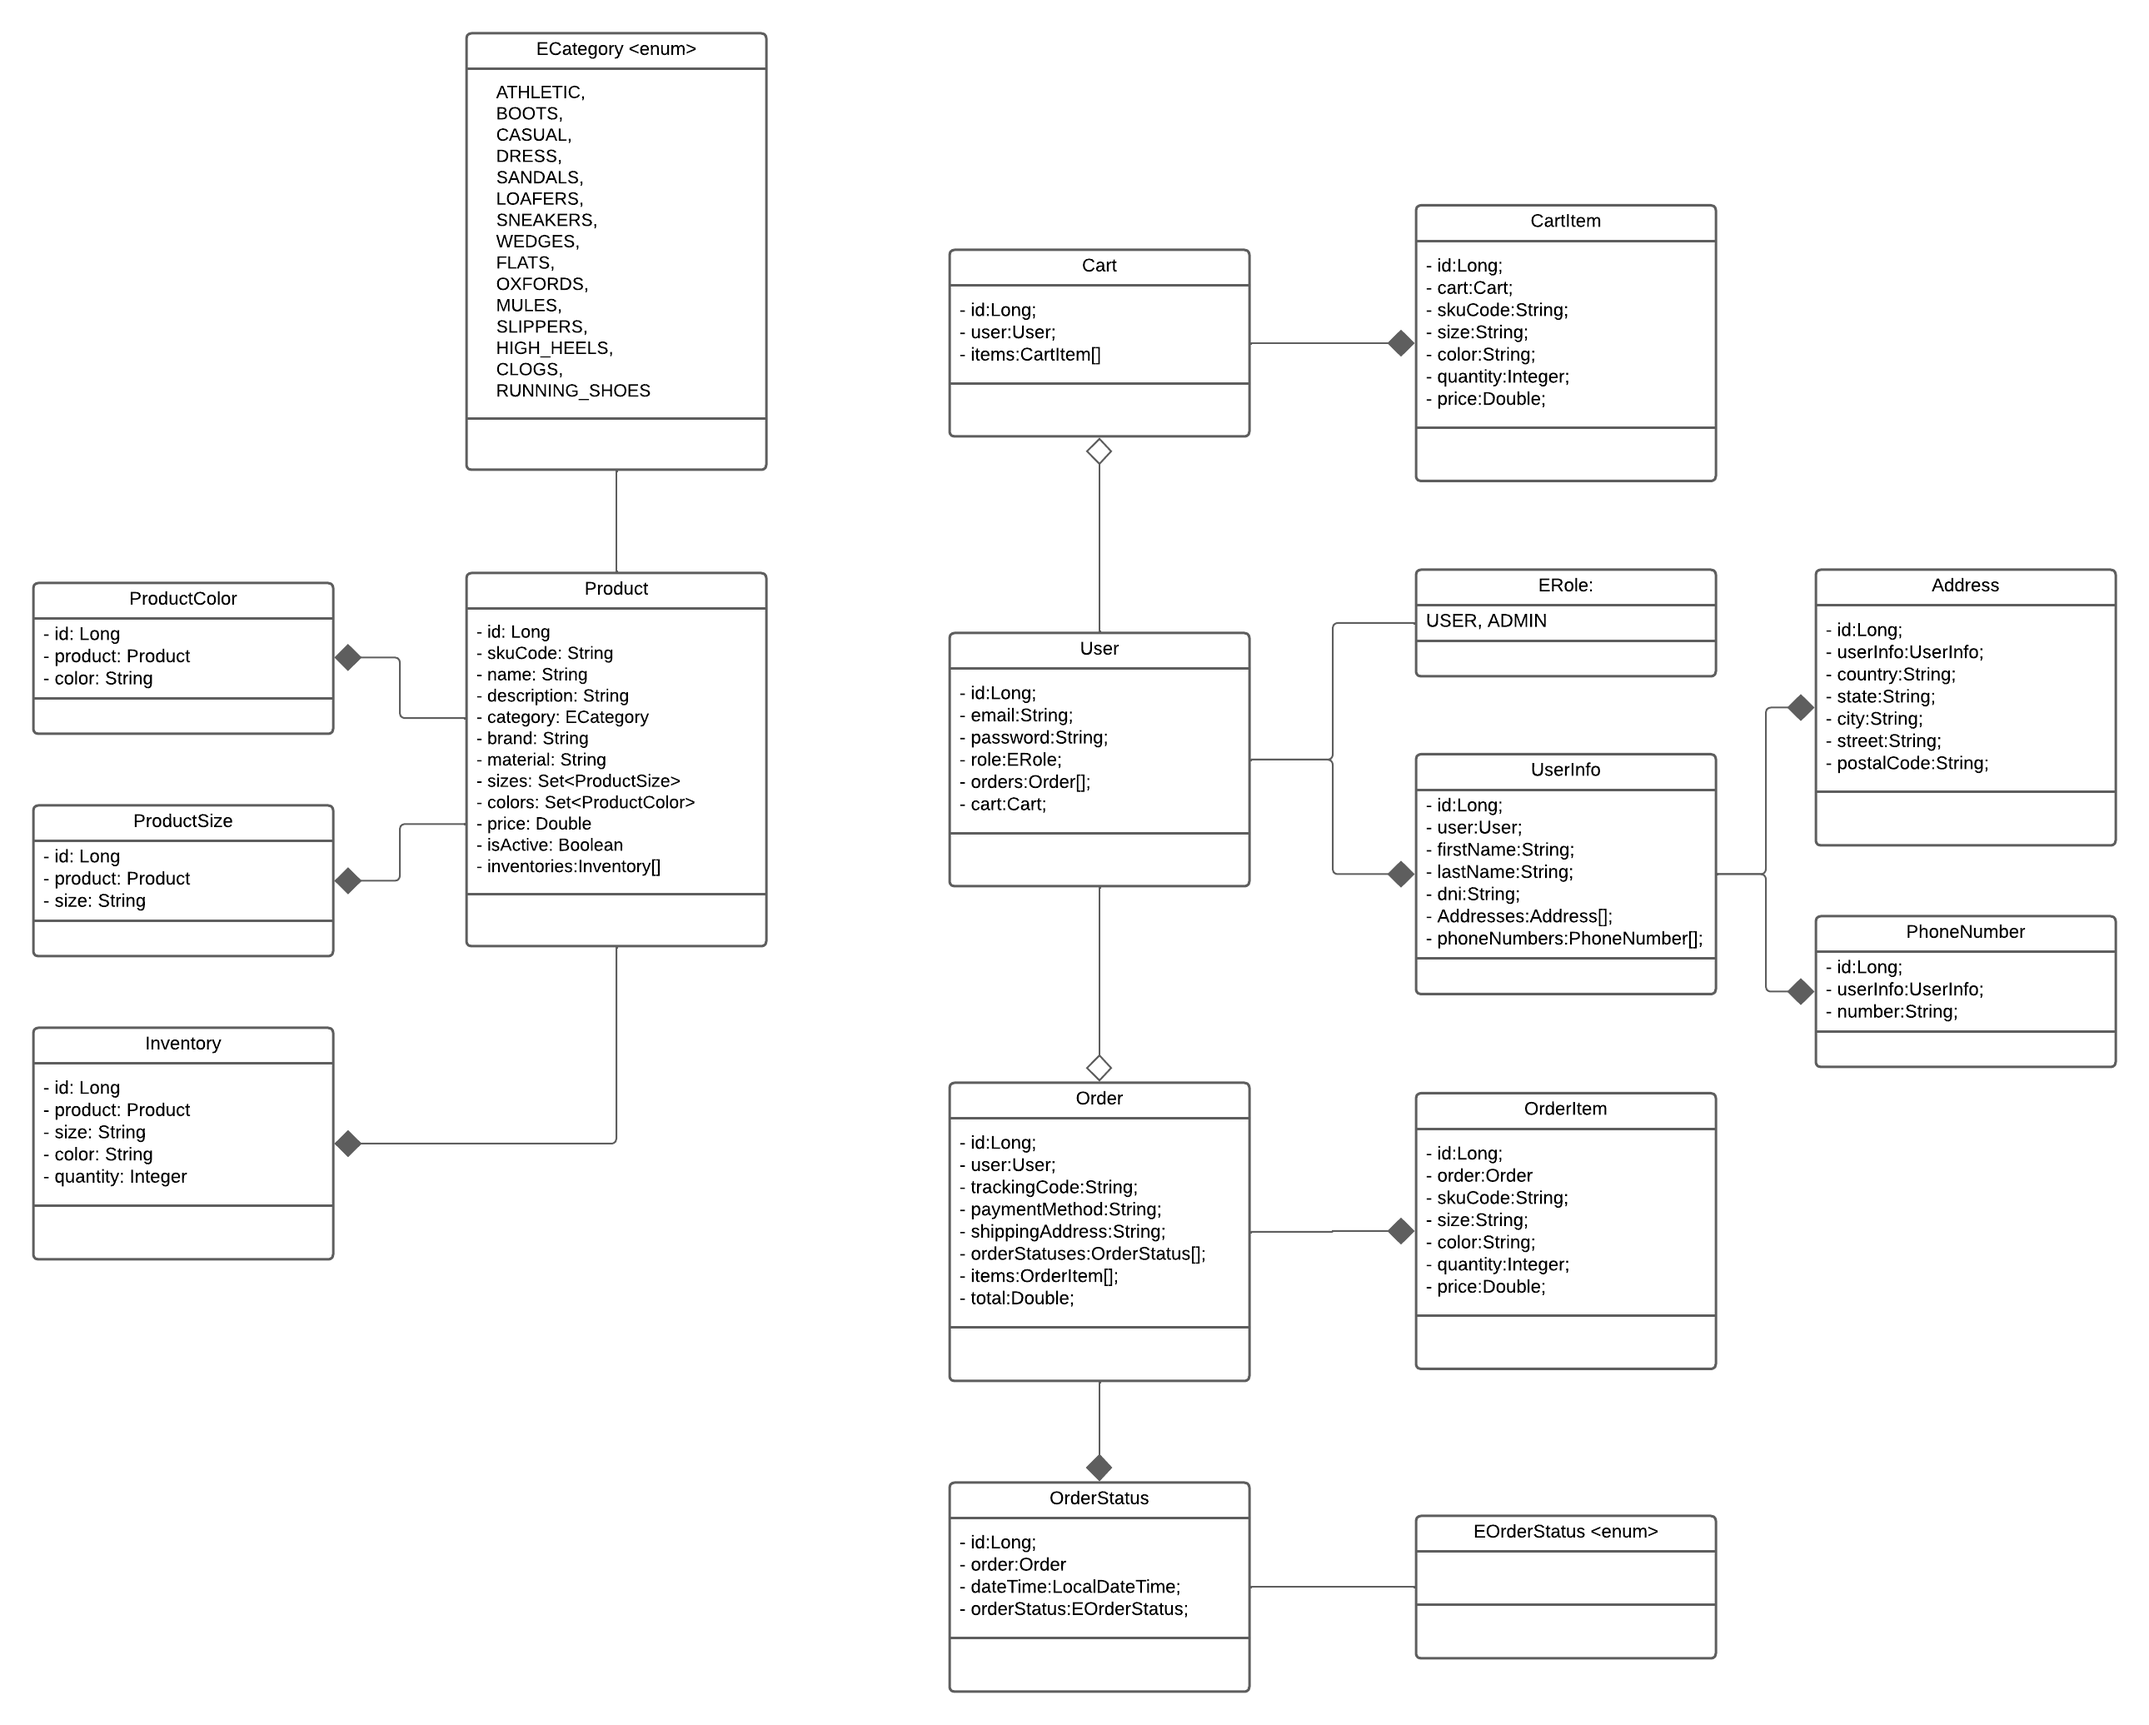
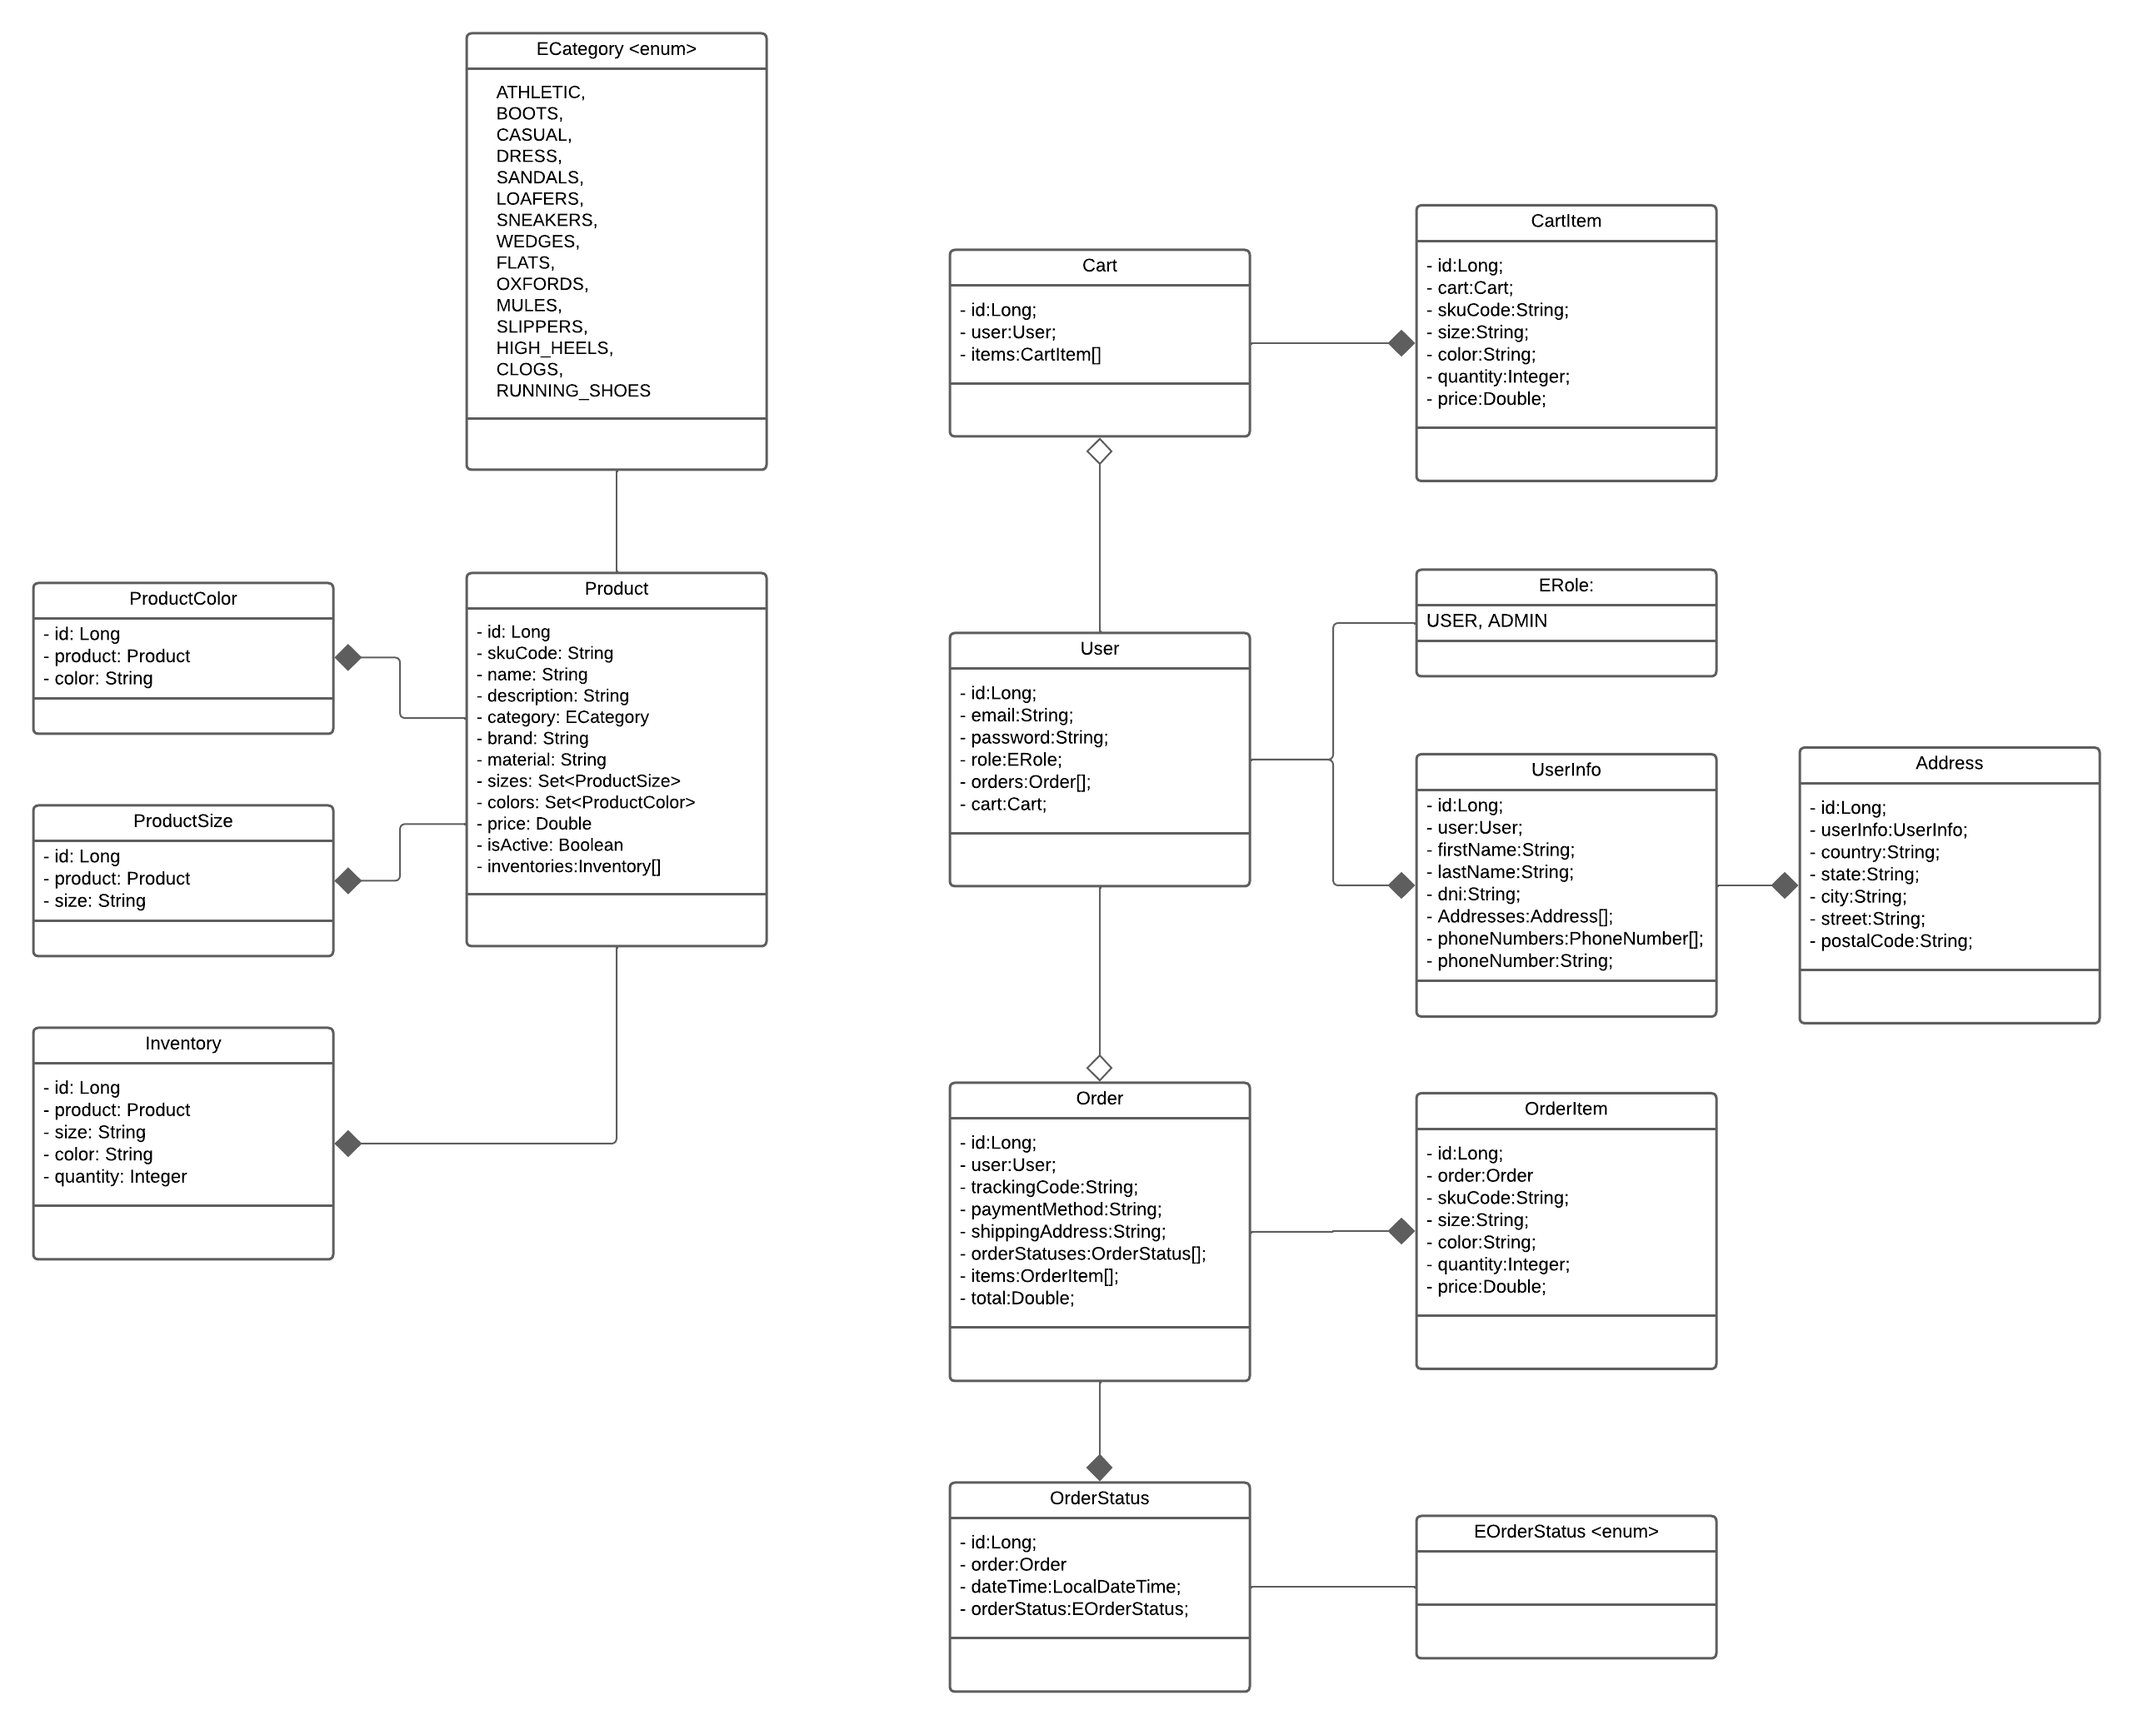
add: user entity

diff --git a/src/main/java/com/rtoresani/entities/user/UserInfo.java b/src/main/java/com/rtoresani/entities/user/UserInfo.java
@@ -1,0 +1,30 @@
+package com.rtoresani.entities.user;
+
+import com.fasterxml.jackson.annotation.JsonBackReference;
+import jakarta.persistence.*;
+import lombok.*;
+
+import java.util.Set;
+
+@Getter
+@Setter
+@Entity
+@Builder
+@NoArgsConstructor
+@AllArgsConstructor
+@Table(name = "users_info")
+public class UserInfo {
+    @Id
+    @GeneratedValue(strategy = GenerationType.IDENTITY)
+    private Long id;
+    @OneToOne(mappedBy = "userInfo")
+    @JoinColumn(name = "user_id")
+    @JsonBackReference
+    private User user;
+    private String firstName;
+    private String lastName;
+    private String dni;
+    @OneToMany(cascade = CascadeType.ALL, fetch = FetchType.LAZY, mappedBy = "userInfo")
+    private Set<Address> address;
+    private String phoneNumber;
+}

diff --git a/src/main/java/com/rtoresani/entities/user/Address.java b/src/main/java/com/rtoresani/entities/user/Address.java
@@ -1,0 +1,29 @@
+package com.rtoresani.entities.user;
+
+import com.fasterxml.jackson.annotation.JsonBackReference;
+import jakarta.persistence.*;
+import lombok.*;
+
+@Getter
+@Setter
+@Entity
+@Builder
+@NoArgsConstructor
+@AllArgsConstructor
+@Table(name = "addresses")
+public class Address {
+    @Id
+    @GeneratedValue(strategy = GenerationType.IDENTITY)
+    private Long id;
+    private String country;
+    private String state;
+    private String city;
+    private String postalCode;
+    private String street;
+    private String apartment;
+    private String deliveryInstructions;
+    @ManyToOne
+    @JoinColumn(name = "user_info")
+    @JsonBackReference
+    private UserInfo userInfo;
+}

diff --git a/src/main/java/com/rtoresani/entities/user/User.java b/src/main/java/com/rtoresani/entities/user/User.java
@@ -1,0 +1,23 @@
+package com.rtoresani.entities.user;
+
+import jakarta.persistence.*;
+import lombok.*;
+
+@Getter
+@Setter
+@Entity
+@Builder
+@NoArgsConstructor
+@AllArgsConstructor
+@Table(name = "users")
+public class User {
+    @Id
+    @GeneratedValue(strategy = GenerationType.IDENTITY)
+    private Long id;
+    private ERole role;
+    private String email;
+    private String password;
+    @OneToOne(cascade = CascadeType.ALL, fetch = FetchType.LAZY)
+    private UserInfo userInfo;
+
+}

diff --git a/src/main/java/com/rtoresani/controllers/UserController.java b/src/main/java/com/rtoresani/controllers/UserController.java
@@ -1,0 +1,13 @@
+package com.rtoresani.controllers;
+
+import com.rtoresani.services.UserService;
+import org.springframework.beans.factory.annotation.Autowired;
+import org.springframework.web.bind.annotation.RequestMapping;
+import org.springframework.web.bind.annotation.RestController;
+
+@RestController
+@RequestMapping("/api/v1/users")
+public class UserController {
+    @Autowired
+    private UserService userService;
+}

diff --git a/src/main/java/com/rtoresani/repositories/user/UserInfoRepository.java b/src/main/java/com/rtoresani/repositories/user/UserInfoRepository.java
@@ -1,0 +1,9 @@
+package com.rtoresani.repositories.user;
+
+import com.rtoresani.entities.user.UserInfo;
+import org.springframework.data.jpa.repository.JpaRepository;
+import org.springframework.stereotype.Repository;
+
+@Repository
+public interface UserInfoRepository extends JpaRepository<UserInfo, Long> {
+}

diff --git a/src/main/java/com/rtoresani/repositories/user/AddressRepository.java b/src/main/java/com/rtoresani/repositories/user/AddressRepository.java
@@ -1,0 +1,9 @@
+package com.rtoresani.repositories.user;
+
+import com.rtoresani.entities.user.Address;
+import org.springframework.data.jpa.repository.JpaRepository;
+import org.springframework.stereotype.Repository;
+
+@Repository
+public interface AddressRepository extends JpaRepository<Address, Long> {
+}

diff --git a/src/main/java/com/rtoresani/repositories/user/UserRepository.java b/src/main/java/com/rtoresani/repositories/user/UserRepository.java
@@ -1,0 +1,9 @@
+package com.rtoresani.repositories.user;
+
+import com.rtoresani.entities.user.User;
+import org.springframework.data.jpa.repository.JpaRepository;
+import org.springframework.stereotype.Repository;
+
+@Repository
+public interface UserRepository extends JpaRepository<User, Long> {
+}

diff --git a/src/main/java/com/rtoresani/services/impl/UserServiceImpl.java b/src/main/java/com/rtoresani/services/impl/UserServiceImpl.java
@@ -1,0 +1,8 @@
+package com.rtoresani.services.impl;
+
+import com.rtoresani.services.UserService;
+import org.springframework.stereotype.Service;
+
+@Service
+public class UserServiceImpl implements UserService {
+}

diff --git a/src/main/java/com/rtoresani/entities/user/ERole.java b/src/main/java/com/rtoresani/entities/user/ERole.java
@@ -1,0 +1,5 @@
+package com.rtoresani.entities.user;
+
+public enum ERole {
+    USER, ADMIN
+}

diff --git a/src/main/java/com/rtoresani/services/UserService.java b/src/main/java/com/rtoresani/services/UserService.java
@@ -1,0 +1,4 @@
+package com.rtoresani.services;
+
+public interface UserService {
+}
